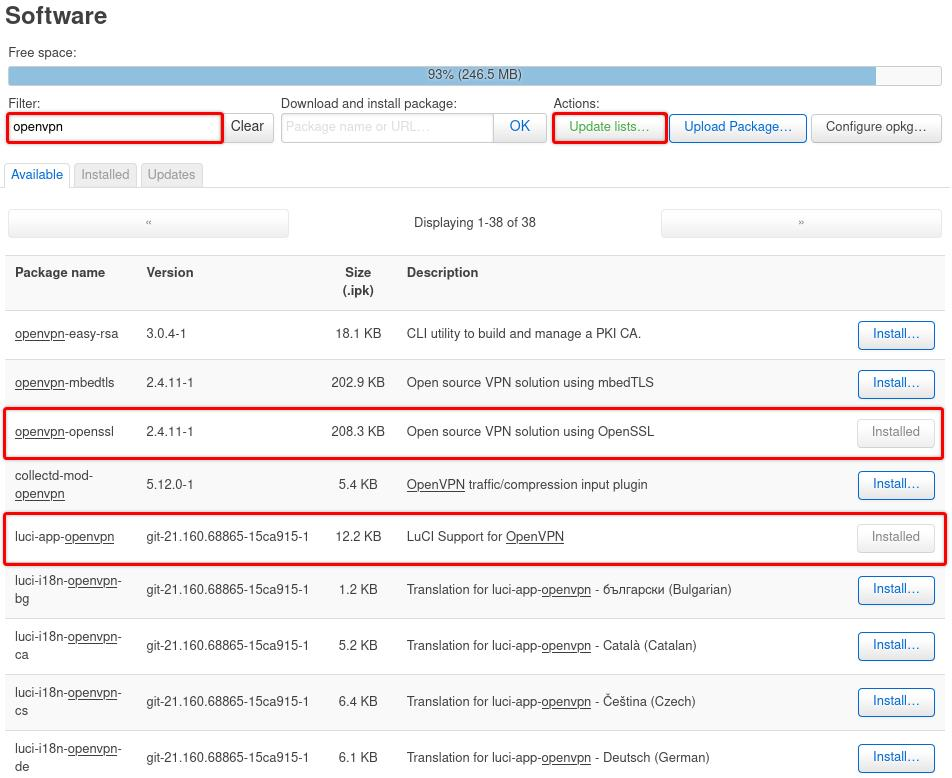
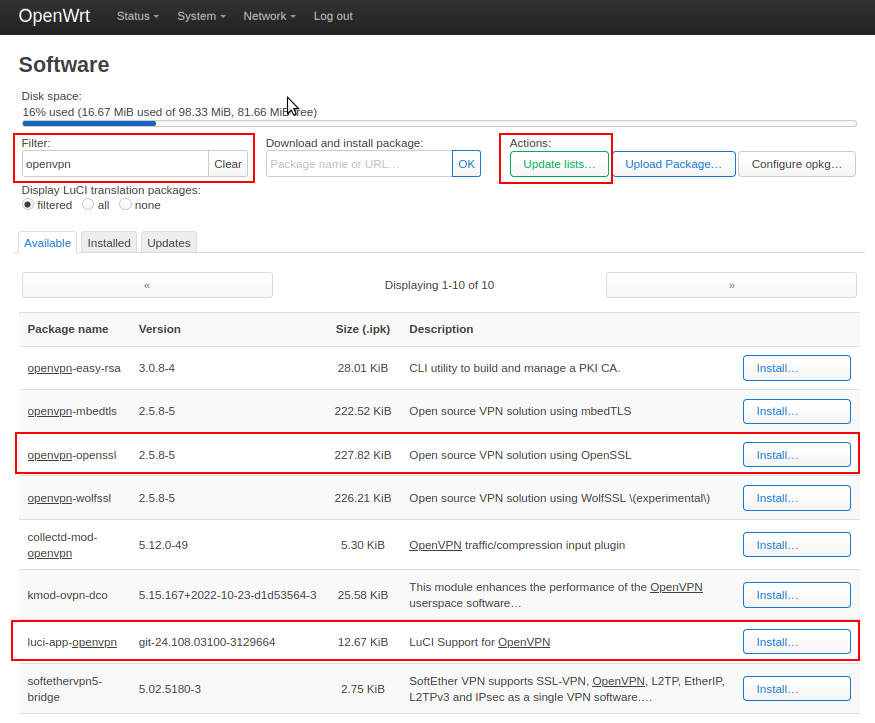
Update OpenWrt OpenVPN setup guide, add OpenWrt TunnelVistion mitigation kb article

diff --git a/src/content/en/pages/setup/router/openwrt.md b/src/content/en/pages/setup/router/openwrt.md
@@ -10,42 +10,35 @@ weight: 20
 ## OpenWrt OpenVPN Setup Guide
 
 <div markdown="1" class="notice notice--warning">
-This guide was produced using OpenWrt v.19.07.2
+This guide was produced using OpenWrt v.23.05.5
 </div>
 
 ### Install required packages
 
-1. In your router's webUI, navigate to `System` - `Software`, click `Update lists`
+1. In your router's webUI, navigate to `System` - `Software`, click `Update lists`.
 
 2. In the **Filter** field, type **OpenVPN**, locate and install **openvpn-openssl** & **luci-app-openvpn** packages<br></br>
 ![](/images-static/uploads/install-openvpn-openwrt-01.png)
     
-3. Restart your router
+3. Restart your router.
     <div markdown="1" class="notice notice--info">
     If you receive an error while attempting to install the 'luci-app-openvpn' package, check the 'Overwrite files from other package(s)' checkbox
     </div>
 
 ### Create a VPN profile
 
-1. Download and extract our [config files](/openvpn-config) to your computer
+1. Download and extract our [config files](/openvpn-config) to your computer.  Choose the IP address option on the configuration generator.  Choose OpenVPN 2.5.
 
-2. In your router, navigate to `VPN` - `OpenVPN`
+2. In your router, navigate to `VPN` - `OpenVPN`.
 
-3. Under the **OVPN configuration file upload** section, `Browse` for the .ovpn config file with the VPN server you would like to connect to, give it any name, then click `Upload`
+3. Under the **OVPN configuration file upload** section, `Browse` for the .ovpn config file with the VPN server you would like to connect to, give it any name, then click `Upload`.
 
-4. Click the `Edit` button next to the created OpenVPN instance and enter your IVPN account ID that begins with letters 'ivpnXXXXXXXX' or 'i-XXXX-XXXX-XXXX' (case-sensitive) and any password (e.g. ivpn) in 2 separate lines in the text box at the bottom
+4. Click the `Edit` button next to the created OpenVPN instance and enter your IVPN account ID that begins with letters 'ivpnXXXXXXXX' or 'i-XXXX-XXXX-XXXX' (case-sensitive) and any password (e.g. ivpn) in 2 separate lines in the text box at the bottom.
 
 5. Append the credentials file path to the **auth-user-pass** line in the first text box. The full path is visible just above the second text box, e.g. - `auth-user-pass /etc/openvpn/Austria.auth`. Click `Save`<br></br>
 ![](/images-static/uploads/install-openvpn-openwrt-02.png)
 
-6. Replace the hostname of the VPN server in line 4 with its IP address - `remote 185.244.212.66 2049`.<br></br>
-To turn the hostname of the server into an IP address use, e.g. the `nslookup at.gw.ivpn.net` command in your computer's terminal:
-	> $ nslookup at.gw.ivpn.net  
-	> ...  
-	> Name:   at.gw.ivpn.net  
-	> Address: 185.244.212.66
-
-7. Click `Save`. Return to main `OpenVPN` section, check the `Enabled` checkbox and click on the `Save & Apply` button. 
+6. Click `Save`. Return to main `OpenVPN` section, check the `Enabled` checkbox and click on the `Save & Apply` button. 
 
 ### Create an Interface
 
@@ -82,7 +75,7 @@ To turn the hostname of the server into an IP address use, e.g. the `nslookup at
 
 ### Configure a Kill-switch (optional)
 
-To ensure the traffic on your LAN devices travels strictly via the VPN tunnel and to prevent any possible leaks if the router disconnects from the VPN server for any reason, edit your lan firewall zone and remove **WAN** from the `Allow forward to destination zones` field, then click `Save` & `Save & Apply` buttons.<br></br>
+To ensure the traffic on your LAN devices travels strictly via the VPN tunnel and to prevent any possible leaks if the router disconnects from the VPN server for any reason, edit your **lan** firewall zone and remove **WAN** from the `Allow forward to destination zones` field, then click `Save` & `Save & Apply` buttons.<br></br>
 ![](/images-static/uploads/install-openvpn-openwrt-05.png)
 
 ### DNS
@@ -91,11 +84,8 @@ To ensure the traffic on your LAN devices travels strictly via the VPN tunnel an
 
 2. Click on the `Edit` button next to the **WAN** interface
 
-3. In the `Advanced Settings` tab, uncheck the `User DNS servers advertised by peer` and specify one of the following DNS servers in the `Use custom DNS servers` field:
+3. In the `Advanced Settings` tab, uncheck the `User DNS servers advertised by peer` and specify one IVPN DNS server in the `Use custom DNS servers` field.  The list of IVPN DNS server IP addresses, including the AntiTracker, is available [here](/knowledgebase/troubleshooting/what-is-the-ip-address-of-your-dns-servers/).
 
-    - *10.0.254.1* = regular DNS with no blocking
-    - *10.0.254.2* = standard AntiTracker to block advertising and malware domains
-    - *10.0.254.3* = Hardcore Mode AntiTracker to also block Google and Facebook domains<br></br>
 ![](/images-static/uploads/install-openvpn-openwrt-06.png)
 
 3. Click `Save` & `Save & Apply` buttons.
@@ -105,4 +95,7 @@ To ensure the traffic on your LAN devices travels strictly via the VPN tunnel an
 1. A device reboot is not required, though it may be useful to confirm that everything behaves as expected.
 2. Run a leak test at [https://www.dnsleaktest.com](https://www.dnsleaktest.com) via one of the internal network clients attached to your OpenWRT router.
 
-**Please note:** If you plan to use a Multi-hop setup please see [this guide](/knowledgebase/general/how-can-i-connect-to-the-multihop-network/) and make the required changes in the .ovpn config file. 
+### Useful Links
+
+- If you plan to use a Multi-hop connection, please see [this guide](/knowledgebase/general/how-can-i-connect-to-the-multihop-network/) to make the required changes in the `.ovpn` config file.
+- To mitigate the [TunnelVision vulnerability](https://nvd.nist.gov/vuln/detail/CVE-2024-3661), check [this IVPN knowledge base article](/knowledgebase/routers/openwrt-tunnelvision-mitigation-cve-2024-3661/).

diff --git a/src/content/en/pages/knowledgebase/routers/openwrt-tunnelvision-mitigation-cve-2024-3661.md b/src/content/en/pages/knowledgebase/routers/openwrt-tunnelvision-mitigation-cve-2024-3661.md
@@ -1,0 +1,31 @@
+---
+title: OpenWrt - TunnelVision Mitigation (CVE-2024-3661) - IVPN Help
+h1: OpenWrt - TunnelVision Mitigation (CVE-2024-3661)
+url: /knowledgebase/routers/openwrt-tunnelvision-mitigation-cve-2024-3661/
+sections:
+    - routers
+    - troubleshooting
+sectionTitle: Routers
+layout: help-details
+weight: 30
+---
+# OpenWrt - TunnelVision Mitigation (CVE-2024-3661)
+
+The [TunnelVision vulnerability](https://nvd.nist.gov/vuln/detail/CVE-2024-3661) relates to loose DHCP rules, specifically DHCP option 121 and routes to bypass the VPN connection.
+
+For OpenWrt, this exploit can be mitigated by setting the `classlessroute` [interface option](https://openwrt.org/docs/guide-user/network/ipv4/configuration#protocol_dhcp) to `0` (zero).  It might be enough to set this option on interfaces with DHCP enabled, though consider enabling the option on all interfaces, just to be on the safe side.
+
+There is currently no LuCI graphical interface to set the option (as of OpenWrt 23.05.5, 2024-09-23), so SSH into your router to access the command line.
+
+Check available interfaces using `uci show network`, then toggle the interface option to `0`, commit the changes, and reload the network:
+
+```
+uci set network.wan.classlessroute=0
+uci set network.wan6.classlessroute=0
+uci set network.lan.classlessroute=0
+uci set network.ivpnAustria.classlessroute=0
+uci commit
+service network reload
+```
+
+**Note:** The `ivpnAustria` interface name is an example in the command above. Verify the name of your VPN interface using the `uci show network` command and replace it in the `uci set ...` command above.
